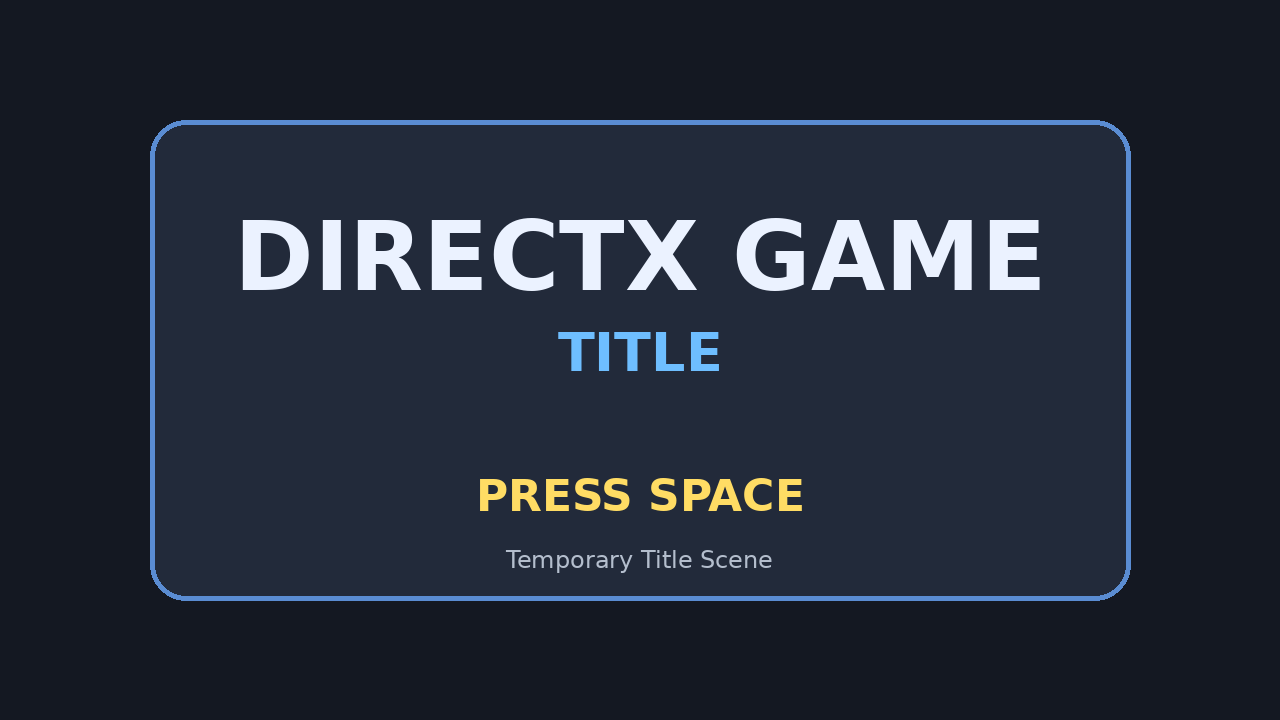
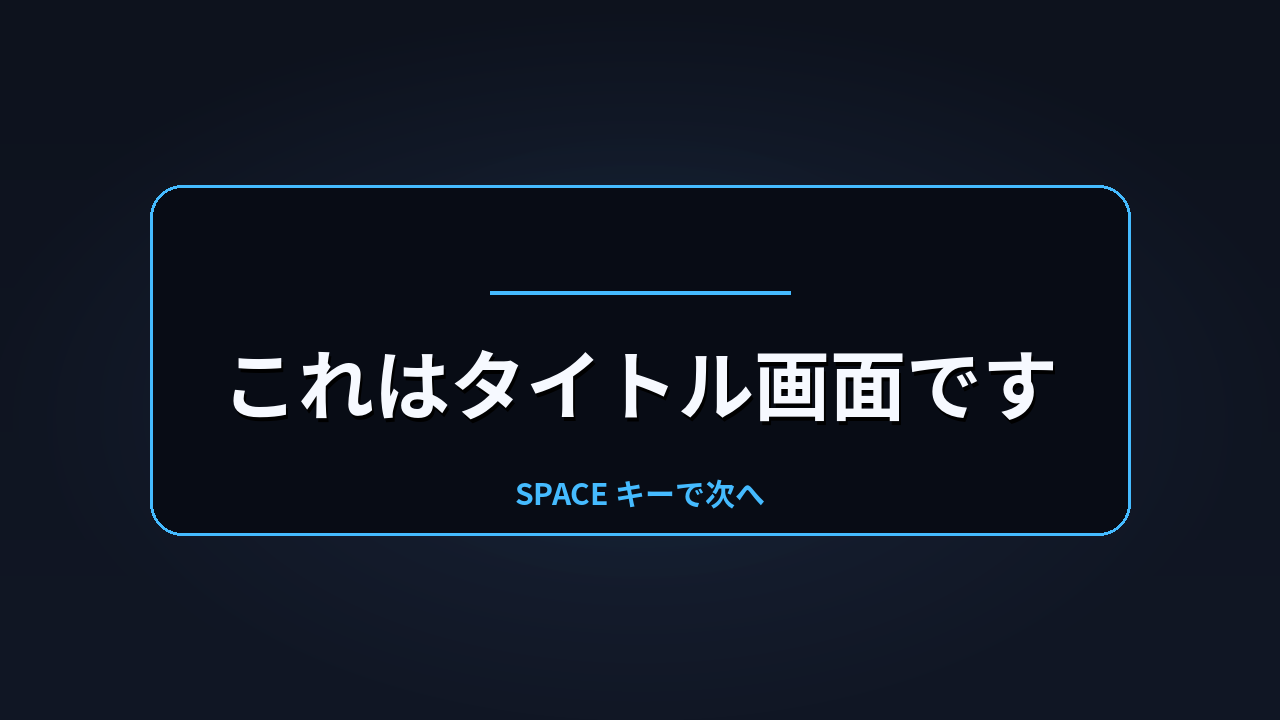
说明画面

diff --git a/DirectXGame/Scene/TitleScene.cpp b/DirectXGame/Scene/TitleScene.cpp
@@ -5,22 +5,22 @@ using namespace KamataEngine;
 void TitleScene::Initialize() {
 	input_ = Input::GetInstance();
 
-	// 文字入りの一時テクスチャを貼ったcubeを画面正面に表示する。
-	titleModel_ = Model::CreateFromOBJ("title");
-	instructionModel_ = Model::CreateFromOBJ("instruction");
+	const uint32_t titleTextureHandle =
+		TextureManager::Load("title/title.png");
+	const uint32_t instructionTextureHandle =
+		TextureManager::Load("instruction/instruction.png");
 
-	camera_.Initialize();
-	camera_.translation_ = {0.0f, 0.0f, -10.0f};
-	camera_.rotation_ = {0.0f, 0.0f, 0.0f};
-	camera_.UpdateMatrix();
+	titleSprite_ = Sprite::Create(titleTextureHandle, {0.0f, 0.0f});
+	instructionSprite_ =
+		Sprite::Create(instructionTextureHandle, {0.0f, 0.0f});
 
-	InitializeTransform(
-		panelTransform_,
-		{0.0f, 0.0f, 0.0f},
-		{5.6f, 3.15f, 0.05f});
-
-	panelColor_.Initialize();
-	panelColor_.SetColor({1.0f, 1.0f, 1.0f, 1.0f});
+	// 画像をウィンドウ全体に描画する。
+	if (titleSprite_ != nullptr) {
+		titleSprite_->SetSize({1280.0f, 720.0f});
+	}
+	if (instructionSprite_ != nullptr) {
+		instructionSprite_->SetSize({1280.0f, 720.0f});
+	}
 
 	Reset();
 }
@@ -44,22 +44,22 @@ bool TitleScene::Update() {
 }
 
 void TitleScene::Draw() {
-	Model* model =
-		page_ == Page::kTitle ? titleModel_ : instructionModel_;
+	Sprite* sprite =
+		page_ == Page::kTitle ? titleSprite_ : instructionSprite_;
 
-	if (model == nullptr) {
+	if (sprite == nullptr) {
 		return;
 	}
 
-	model->Draw(panelTransform_, camera_, &panelColor_);
+	sprite->Draw();
 }
 
 void TitleScene::Finalize() {
-	delete titleModel_;
-	delete instructionModel_;
+	delete titleSprite_;
+	delete instructionSprite_;
 
-	titleModel_ = nullptr;
-	instructionModel_ = nullptr;
+	titleSprite_ = nullptr;
+	instructionSprite_ = nullptr;
 }
 
 SceneType TitleScene::GetRequestedScene() const {
@@ -69,15 +69,4 @@ SceneType TitleScene::GetRequestedScene() const {
 void TitleScene::Reset() {
 	page_ = Page::kTitle;
 	requestedScene_ = SceneType::kNone;
-}
-
-void TitleScene::InitializeTransform(
-    WorldTransform& transform,
-    const Vector3& position,
-    const Vector3& scale) {
-
-	transform.Initialize();
-	transform.translation_ = position;
-	transform.scale_ = scale;
-	transform.UpdateMatarix();
 }

diff --git a/DirectXGame/Scene/SceneManager.cpp b/DirectXGame/Scene/SceneManager.cpp
@@ -1,16 +1,40 @@
 #include "SceneManager.h"
 
+#include <KamataEngine.h>
+
 #include "GameScene.h"
 #include "TitleScene.h"
 #include "LevelSelectScene.h"
 #include "../Demo/SwingDemoScene.h"
 #include "../Demo/ThirdStageScene.h"
 
+using namespace KamataEngine;
+
 void SceneManager::Initialize() {
+	input_ = Input::GetInstance();
+
+	const uint32_t howToTextureHandle =
+		TextureManager::Load("instruction/instruction.png");
+	howToSprite_ = Sprite::Create(howToTextureHandle, {0.0f, 0.0f});
+	if (howToSprite_ != nullptr) {
+		howToSprite_->SetSize({1280.0f, 720.0f});
+	}
+
 	ChangeScene(SceneType::kTitle);
 }
 
 bool SceneManager::Update() {
+	if (IsGameplayScene() && input_ != nullptr &&
+		input_->TriggerKey(DIK_TAB)) {
+		isHowToVisible_ = !isHowToVisible_;
+		return true;
+	}
+
+	// 説明画面の表示中はゲームを一時停止する。
+	if (isHowToVisible_) {
+		return true;
+	}
+
 	switch (currentScene_) {
 	case SceneType::kTitle: {
 		if (titleScene_ == nullptr || !titleScene_->Update()) {
@@ -84,9 +108,6 @@ bool SceneManager::Update() {
 void SceneManager::Draw() {
 	switch (currentScene_) {
 	case SceneType::kTitle:
-		if (titleScene_ != nullptr) {
-			titleScene_->Draw();
-		}
 		break;
 
 	case SceneType::kGame:
@@ -119,11 +140,26 @@ void SceneManager::Draw() {
 	}
 }
 
+void SceneManager::DrawSprite() {
+	if (currentScene_ == SceneType::kTitle && titleScene_ != nullptr) {
+		titleScene_->Draw();
+	}
+
+	if (isHowToVisible_ && howToSprite_ != nullptr) {
+		howToSprite_->Draw();
+	}
+}
+
 void SceneManager::Finalize() {
 	DeleteCurrentScene();
+
+	delete howToSprite_;
+	howToSprite_ = nullptr;
+	input_ = nullptr;
 }
 
 void SceneManager::ChangeScene(SceneType nextScene) {
+	isHowToVisible_ = false;
 	currentScene_ = nextScene;
 
 	switch (currentScene_) {
@@ -209,4 +245,10 @@ void SceneManager::DeleteCurrentScene() {
 	}
 
 	currentScene_ = SceneType::kNone;
+}
+
+bool SceneManager::IsGameplayScene() const {
+	return currentScene_ == SceneType::kGame ||
+		currentScene_ == SceneType::kSwing ||
+		currentScene_ == SceneType::kThird;
 }

diff --git a/DirectXGame/Scene/TitleScene.h b/DirectXGame/Scene/TitleScene.h
@@ -26,20 +26,10 @@ private:
 		kInstruction,
 	};
 
-	void InitializeTransform(
-	    KamataEngine::WorldTransform& transform,
-	    const KamataEngine::Vector3& position,
-	    const KamataEngine::Vector3& scale);
-
 private:
 	KamataEngine::Input* input_ = nullptr;
-	KamataEngine::Camera camera_;
-
-	KamataEngine::Model* titleModel_ = nullptr;
-	KamataEngine::Model* instructionModel_ = nullptr;
-
-	KamataEngine::WorldTransform panelTransform_;
-	KamataEngine::ObjectColor panelColor_;
+	KamataEngine::Sprite* titleSprite_ = nullptr;
+	KamataEngine::Sprite* instructionSprite_ = nullptr;
 
 	Page page_ = Page::kTitle;
 	SceneType requestedScene_ = SceneType::kNone;

diff --git a/DirectXGame/Scene/SceneManager.h b/DirectXGame/Scene/SceneManager.h
@@ -2,6 +2,11 @@
 
 #include "SceneType.h"
 
+namespace KamataEngine {
+class Input;
+class Sprite;
+}
+
 class TitleScene;
 class GameScene;
 class LevelSelectScene;
@@ -13,14 +18,19 @@ public:
 	void Initialize();
 	bool Update();
 	void Draw();
+	void DrawSprite();
 	void Finalize();
 
 private:
 	void ChangeScene(SceneType nextScene);
 	void DeleteCurrentScene();
+	bool IsGameplayScene() const;
 
 private:
 	SceneType currentScene_ = SceneType::kNone;
+	KamataEngine::Input* input_ = nullptr;
+	KamataEngine::Sprite* howToSprite_ = nullptr;
+	bool isHowToVisible_ = false;
 
 	TitleScene* titleScene_ = nullptr;
 	GameScene* gameScene_ = nullptr;

diff --git a/DirectXGame/main.cpp b/DirectXGame/main.cpp
@@ -39,6 +39,10 @@ int WINAPI WinMain(
 		sceneManager->Draw();
 		Model::PostDraw();
 
+		Sprite::PreDraw();
+		sceneManager->DrawSprite();
+		Sprite::PostDraw();
+
 		dxCommon->PostDraw();
 	}
 
